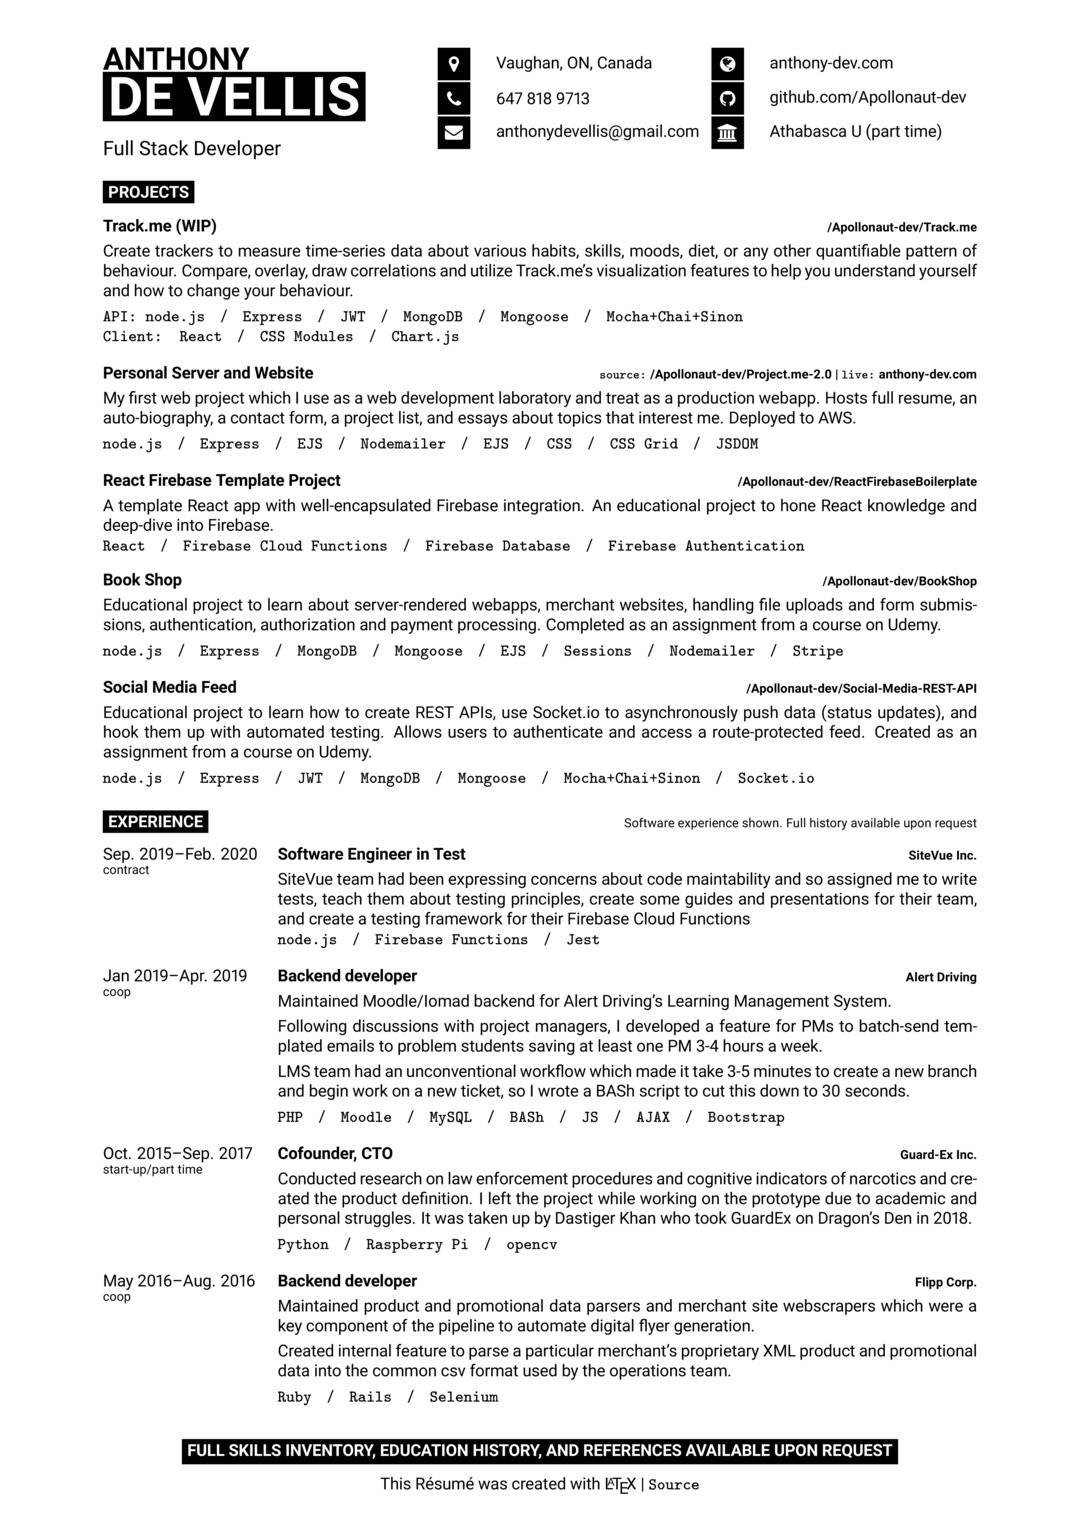
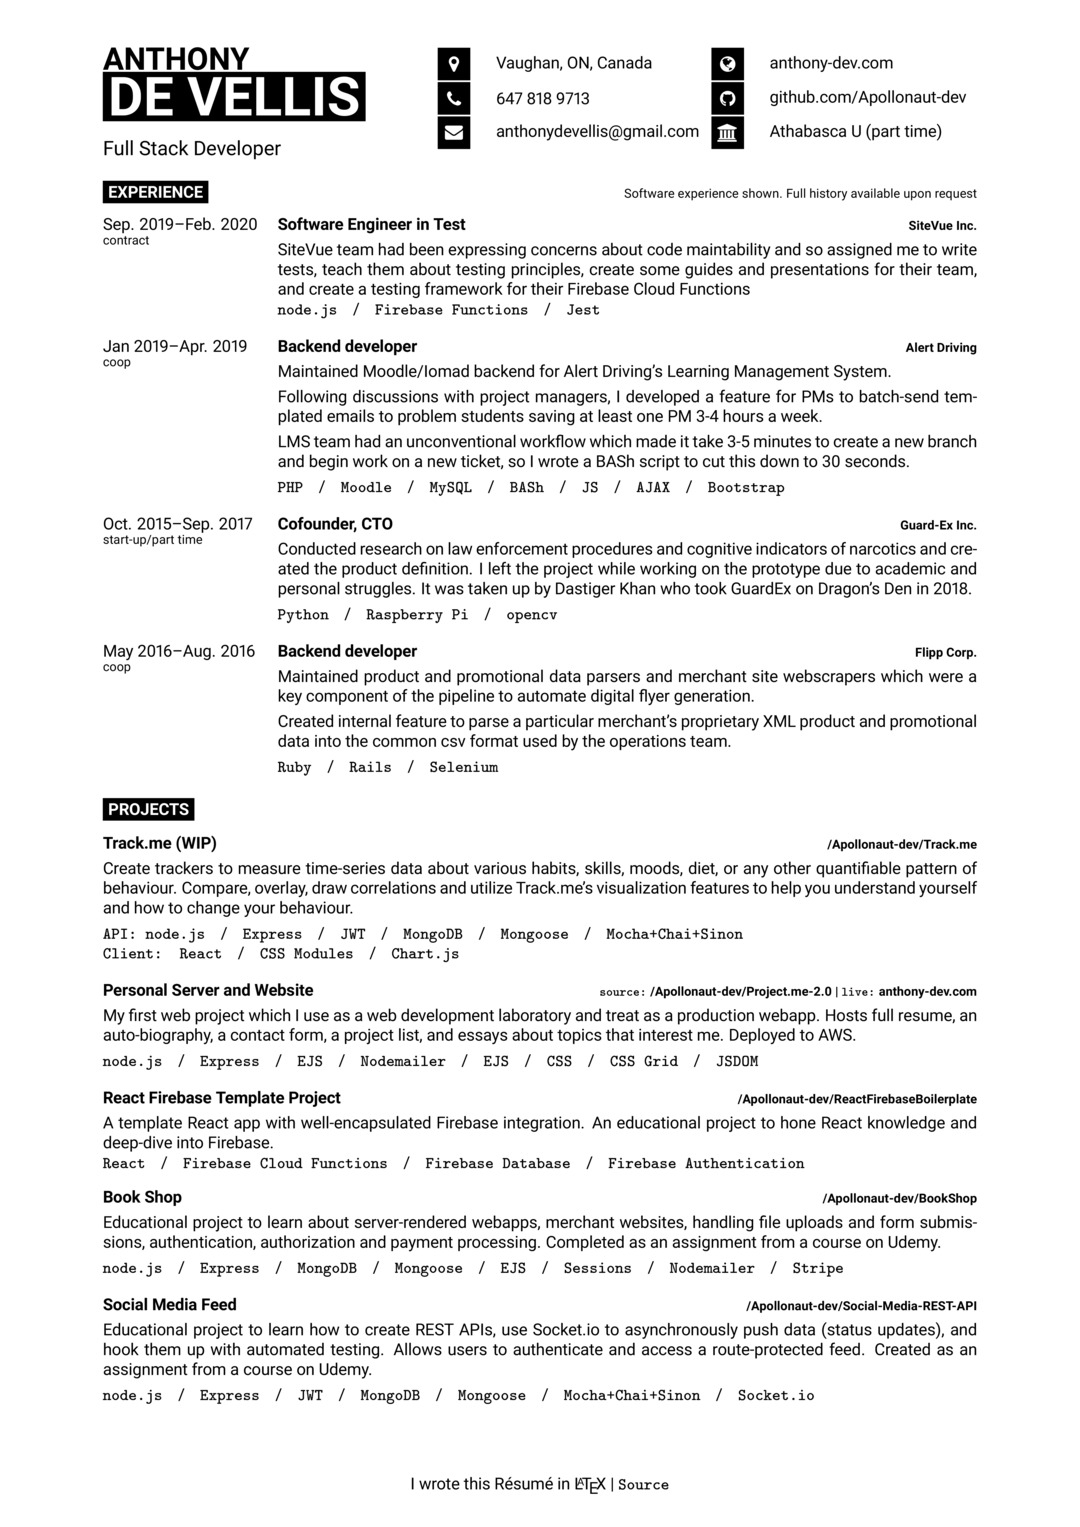
update

Changed region(s): [[0.0917, 0.1231, 0.9167, 0.9849]]

diff --git a/main.tex b/main.tex
@@ -10,7 +10,7 @@
 
 \begin{document}
 \renewcommand{\headrulewidth}{0pt}
-\fancyfoot[CO]{\vspace{\fill} This R\'esum\'e was created with \LaTeX \href{https://github.com/Apollonaut-dev/Resume}{ | \texttt{Source}}}
+\fancyfoot[CO]{\vspace{\fill} I wrote this R\'esum\'e in \LaTeX \href{https://github.com/Apollonaut-dev/Resume}{ | \texttt{Source}}}
 
 %----------------------------------------------------------------------------------------
 %	TITLE AND CONTACT INFORMATION
@@ -43,76 +43,43 @@
 %	INTRODUCTION, SKILLS AND TECHNOLOGIES
 %----------------------------------------------------------------------------------------
 
-% \cvsect{Skills}
 
-% \begin{minipage}[t]{0.4\textwidth} % 40% of the page width for the introduction text
+% \begin{minipage}[t]{0.33\textwidth} % 40% of the page width for the introduction text
 % 	\vspace{-\baselineskip} % Required for vertically aligning minipages
 	
 % 	\lorem \lorem \lorem \lorem \lorem\\ % Dummy text
 % \end{minipage}
-% \begin{minipage}[t]{0.5\textwidth} % 50% of the page for the skills bar chart
-%   \cvsect{Skills}
-%   \vspace{0.25cm}
+% \cvsect{Skills}
+% \begin{minipage}[t]{0.33\textwidth}
 % 	\vspace{-\baselineskip} % Required for vertically aligning minipages
-% 	\begin{barchart}{4}
-% 		\baritem{REST Design}{40}
-% 		\baritem{Authentication/Authorization}{30}
-% 		\baritem{Server-rendered webapps}{50}
-% 		\baritem{Fullstack apps}{20}
-% 		\baritem{Functional programming}{50}
-%     \baritem{Object-Oriented Programming}{40}
-%     \baritem{Automated Testing \& TDD}{60}
-% 	\end{barchart}
+%   \skill{Node.js}
+%   \skill{Express.js}
+%   \skill{Mocha, Chai, Sinon}
+%   \skill{MongoDB/Mongoose}
+%   \skill{SQL}
 % \end{minipage}
 % \hfill % Whitespace between
-% \begin{minipage}[t]{0.5\textwidth} % 50% of the page for the skills bar chart
-%   \cvsect{Technologies}
-%   \vspace{0.25cm}
+% \begin{minipage}[t]{0.33\textwidth}
+% \begin{center}
 % 	\vspace{-\baselineskip} % Required for vertically aligning minipages
-% 	\begin{barchart}{4}
-% 		\baritem{JavaScript}{80}
-% 		\baritem{Express.js}{50}
-% 		\baritem{MongoDB/Mongoose}{40}
-% 		\baritem{MySQL}{20}
-%     \baritem{React}{40}
-%     \baritem{Firebase}{80}
-% 		\baritem{Git}{40}
-% 		\baritem{\LaTeX}{20}
-% 	\end{barchart}
+%   \skill{Javascript}
+%   \skill{HTML/CSS}
+%   \skill{React.js}
+%   \skill{\LaTeX}
+%   \skill{Jest}
+% \end{center}
 % \end{minipage}
-
-
-%----------------------------------------------------------------------------------------
-%	PROJECTS
-%----------------------------------------------------------------------------------------
-
-\cvsect{Projects}
-\begin{entrylist}
-  \entryproject
-    {Track.me (WIP)}
-    {\href{https://github.com/Apollonaut-dev/Track.me}{/Apollonaut-dev/Track.me}}
-    {Create trackers to measure time-series data about various habits, skills, moods, diet, or any other quantifiable pattern of behaviour. Compare, overlay, draw correlations and utilize Track.me's visualization features to help you understand yourself and how to change your behaviour.\smallskip \\\texttt{API: }\texttt{node.js}\slashsep\texttt{Express}\slashsep\texttt{JWT}\slashsep\texttt{MongoDB}\slashsep\texttt{Mongoose}\slashsep\texttt{Mocha+Chai+Sinon}\\\texttt{Client: }\texttt{React}\slashsep\texttt{CSS Modules}\slashsep\texttt{Chart.js}}
-  \\
-  \entryproject
-    {Personal Server and Website}
-    {\texttt{source:} \href{https://github.com/Apollonaut-dev/Project.me-2.0}{/Apollonaut-dev/Project.me-2.0} | \texttt{live:} \href{http://www.anthony-dev.com}{anthony-dev.com}}
-    {My first web project which I use as a web development laboratory and treat as a production webapp. Hosts full resume, an auto-biography, a contact form, a project list, and essays about topics that interest me. Deployed to AWS.\smallskip \\\texttt{node.js}\slashsep\texttt{Express}\slashsep\texttt{EJS}\slashsep\texttt{Nodemailer}\slashsep\texttt{EJS}\slashsep\texttt{CSS}\slashsep\texttt{CSS Grid}\slashsep\texttt{JSDOM}}
-  \\
-  \entryproject
-    {React Firebase Template Project}
-    {\href{https://github.com/Apollonaut-dev/ReactFirebaseBoilerplate}{/Apollonaut-dev/ReactFirebaseBoilerplate}}
-    {A template React app with well-encapsulated Firebase integration. An educational project to hone React knowledge and deep-dive into Firebase.\\\texttt{React}\slashsep\texttt{Firebase Cloud Functions}\slashsep\texttt{Firebase Database}\slashsep\texttt{Firebase Authentication}}
-  \\
-  \entryproject
-    {Book Shop}
-    {\href{https://github.com/Apollonaut-dev/BookShop}{/Apollonaut-dev/BookShop}}
-    {Educational project to learn about server-rendered webapps, merchant websites, handling file uploads and form submissions, authentication, authorization and payment processing. Completed as an assignment from a course on Udemy. \smallskip \\\texttt{node.js}\slashsep\texttt{Express}\slashsep\texttt{MongoDB}\slashsep\texttt{Mongoose}\slashsep\texttt{EJS}\slashsep\texttt{Sessions}\slashsep\texttt{Nodemailer}\slashsep\texttt{Stripe}}
-  \\
-  \entryproject
-    {Social Media Feed}
-    {\href{https://github.com/Apollonaut-dev/Social-Media-REST-API}{/Apollonaut-dev/Social-Media-REST-API}}
-    {Educational project to learn how to create REST APIs, use Socket.io to asynchronously push data (status updates), and hook them up with automated testing. Allows users to authenticate and access a route-protected feed. Created as an assignment from a course on Udemy. \smallskip \\\texttt{node.js}\slashsep\texttt{Express}\slashsep\texttt{JWT}\slashsep\texttt{MongoDB}\slashsep\texttt{Mongoose}\slashsep\texttt{Mocha+Chai+Sinon}\slashsep\texttt{Socket.io}}
-\end{entrylist}
+% \hfill % Whitespace between
+% \begin{minipage}[t]{0.33\textwidth} 
+% \begin{flushright}
+% 	\vspace{-\baselineskip} % Required for vertically aligning minipages
+%   \skill{Git}
+%   \skill{BASh}
+%   \skill{Firebase Cloud}
+%   \skill{C/C++}
+%   \skill{Asymptotic Analysis}
+% \end{flushright}
+% \end{minipage}
 
 %----------------------------------------------------------------------------------------
 %	EXPERIENCE
@@ -146,15 +113,47 @@
     {Maintained product and promotional data parsers and merchant site webscrapers which were a key component of the pipeline to automate digital flyer generation. \smallskip \\ Created internal feature to parse a particular merchant's proprietary XML product and promotional data into the common csv format used by the operations team. \smallskip \\\texttt{Ruby}\slashsep\texttt{Rails}\slashsep\texttt{Selenium}}
 \end{entrylist}
 
-\begin{center}
-\cvsect{Full skills inventory, education history, and references available upon request}
-\end{center}
+%----------------------------------------------------------------------------------------
+%	PROJECTS
+%----------------------------------------------------------------------------------------
+
+\cvsect{Projects}
+\begin{entrylist}
+  \entryproject
+    {Track.me (WIP)}
+    {\href{https://github.com/Apollonaut-dev/Track.me}{/Apollonaut-dev/Track.me}}
+    {Create trackers to measure time-series data about various habits, skills, moods, diet, or any other quantifiable pattern of behaviour. Compare, overlay, draw correlations and utilize Track.me's visualization features to help you understand yourself and how to change your behaviour.\smallskip \\\texttt{API: }\texttt{node.js}\slashsep\texttt{Express}\slashsep\texttt{JWT}\slashsep\texttt{MongoDB}\slashsep\texttt{Mongoose}\slashsep\texttt{Mocha+Chai+Sinon}\\\texttt{Client: }\texttt{React}\slashsep\texttt{CSS Modules}\slashsep\texttt{Chart.js}}
+  \\
+  \entryproject
+    {Personal Server and Website}
+    {\texttt{source:} \href{https://github.com/Apollonaut-dev/Project.me-2.0}{/Apollonaut-dev/Project.me-2.0} | \texttt{live:} \href{http://www.anthony-dev.com}{anthony-dev.com}}
+    {My first web project which I use as a web development laboratory and treat as a production webapp. Hosts full resume, an auto-biography, a contact form, a project list, and essays about topics that interest me. Deployed to AWS.\smallskip \\\texttt{node.js}\slashsep\texttt{Express}\slashsep\texttt{EJS}\slashsep\texttt{Nodemailer}\slashsep\texttt{EJS}\slashsep\texttt{CSS}\slashsep\texttt{CSS Grid}\slashsep\texttt{JSDOM}}
+  \\
+  \entryproject
+    {React Firebase Template Project}
+    {\href{https://github.com/Apollonaut-dev/ReactFirebaseBoilerplate}{/Apollonaut-dev/ReactFirebaseBoilerplate}}
+    {A template React app with well-encapsulated Firebase integration. An educational project to hone React knowledge and deep-dive into Firebase.\\\texttt{React}\slashsep\texttt{Firebase Cloud Functions}\slashsep\texttt{Firebase Database}\slashsep\texttt{Firebase Authentication}}
+  \\
+  \entryproject
+    {Book Shop}
+    {\href{https://github.com/Apollonaut-dev/BookShop}{/Apollonaut-dev/BookShop}}
+    {Educational project to learn about server-rendered webapps, merchant websites, handling file uploads and form submissions, authentication, authorization and payment processing. Completed as an assignment from a course on Udemy. \smallskip \\\texttt{node.js}\slashsep\texttt{Express}\slashsep\texttt{MongoDB}\slashsep\texttt{Mongoose}\slashsep\texttt{EJS}\slashsep\texttt{Sessions}\slashsep\texttt{Nodemailer}\slashsep\texttt{Stripe}}
+  \\
+  \entryproject
+    {Social Media Feed}
+    {\href{https://github.com/Apollonaut-dev/Social-Media-REST-API}{/Apollonaut-dev/Social-Media-REST-API}}
+    {Educational project to learn how to create REST APIs, use Socket.io to asynchronously push data (status updates), and hook them up with automated testing. Allows users to authenticate and access a route-protected feed. Created as an assignment from a course on Udemy. \smallskip \\\texttt{node.js}\slashsep\texttt{Express}\slashsep\texttt{JWT}\slashsep\texttt{MongoDB}\slashsep\texttt{Mongoose}\slashsep\texttt{Mocha+Chai+Sinon}\slashsep\texttt{Socket.io}}
+\end{entrylist}
+
+% \begin{center}
+% \cvsect{Full skills inventory, education history, and references available upon request}
+% \end{center}
+
 %----------------------------------------------------------------------------------------
 %	EDUCATION
 %----------------------------------------------------------------------------------------
-%
+
 % \cvsect{Education}
-%
 % \begin{entrylist}
 % 	\entry
 % 		{2019--present}
@@ -172,6 +171,5 @@
 % 		{University of Waterloo}
 % 		{}
 % \end{entrylist}
-%
 
 \end{document}
